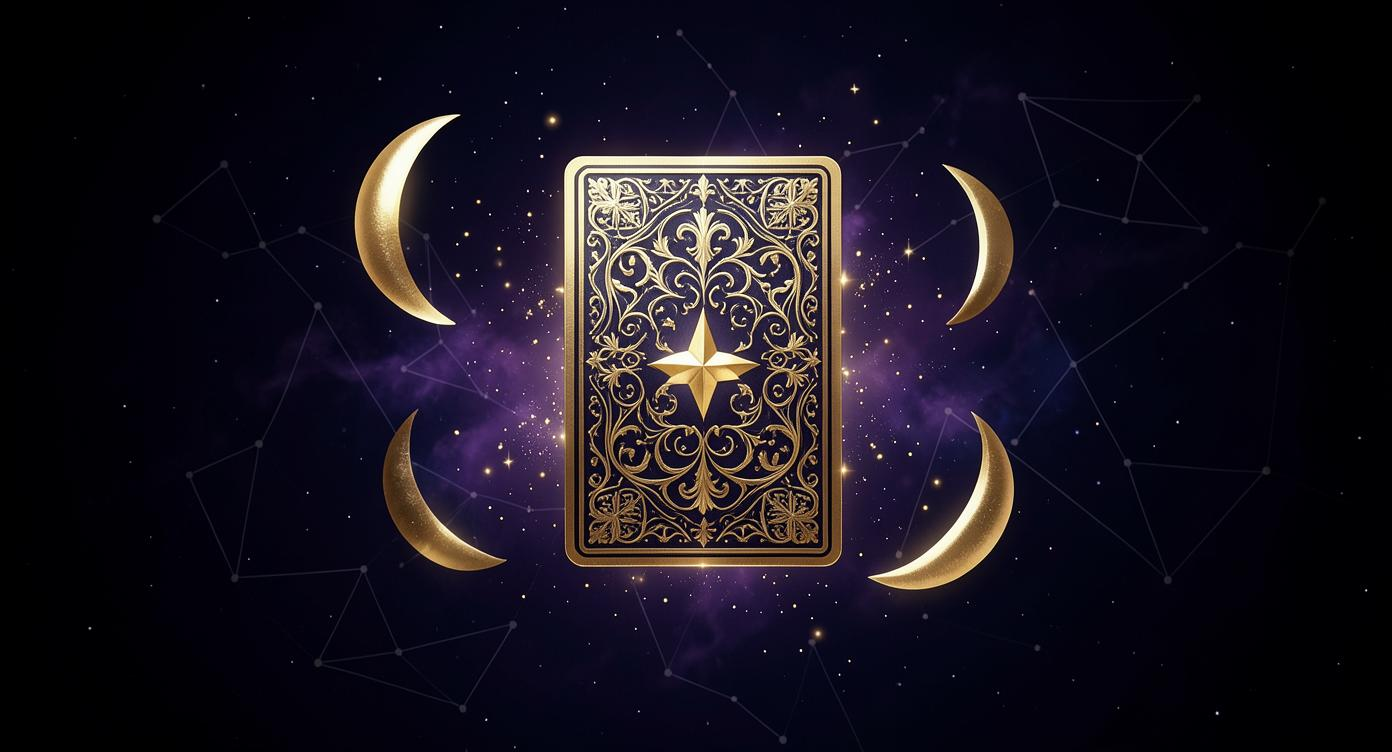
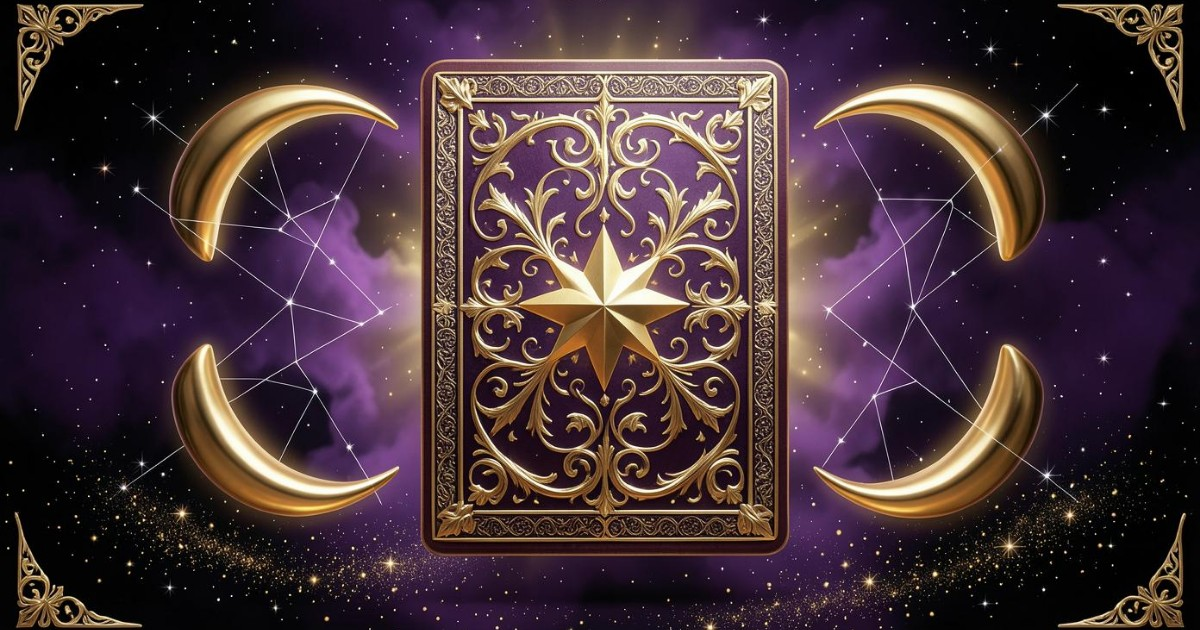
Redesign the social preview cover with a fuller composition
The old cover left large empty starfield areas, so the new artwork fills the frame with four gold crescents, a denser starfield with constellation lines, nebula light and gilded corner ornaments. It is cropped to the 1200x630 size the meta tags already declare.

diff --git a/sw.js b/sw.js
@@ -1,7 +1,7 @@
 /* Tarot Sanctuary — Service Worker (offline cache)
    ใช้ได้เฉพาะเมื่อเปิดผ่าน http/https เท่านั้น (file:// ไม่รองรับ service worker) */
 
-const CACHE_VERSION = "tarot-v34";
+const CACHE_VERSION = "tarot-v35";
 
 const CORE_ASSETS = [
   "./",
